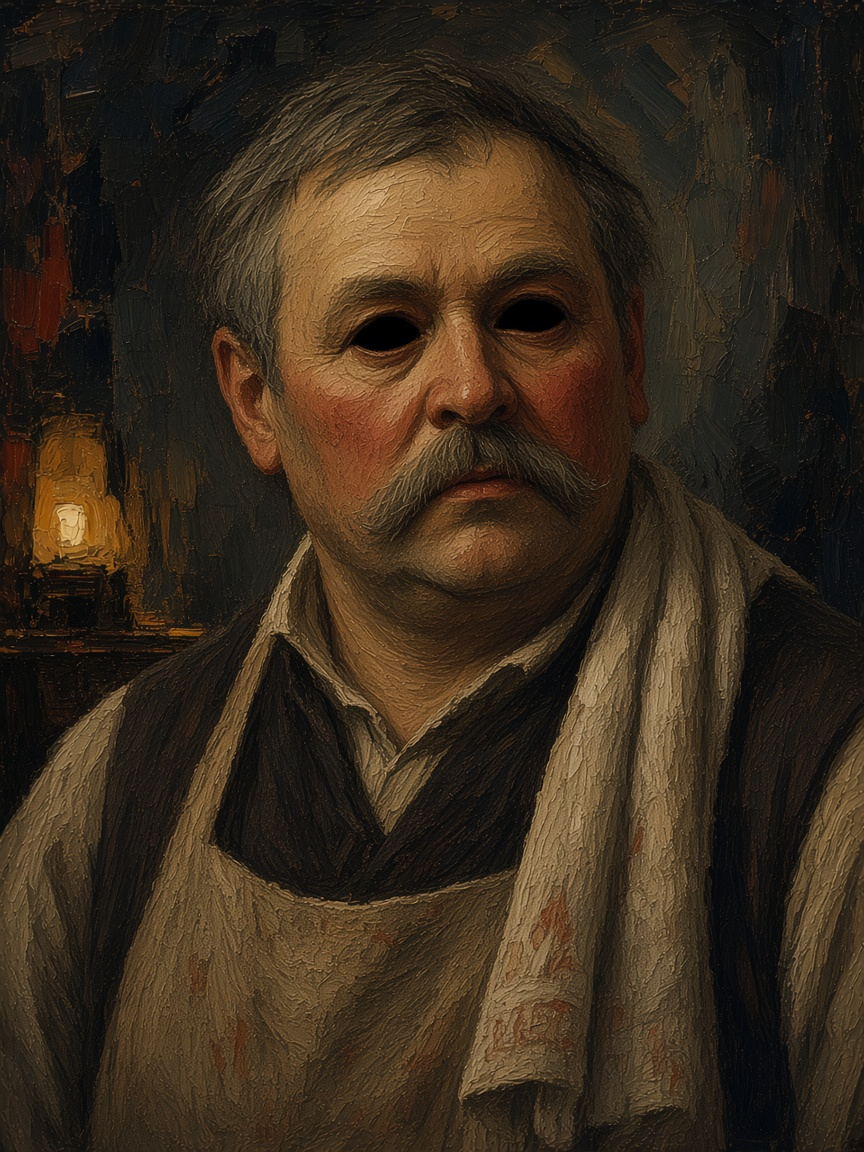
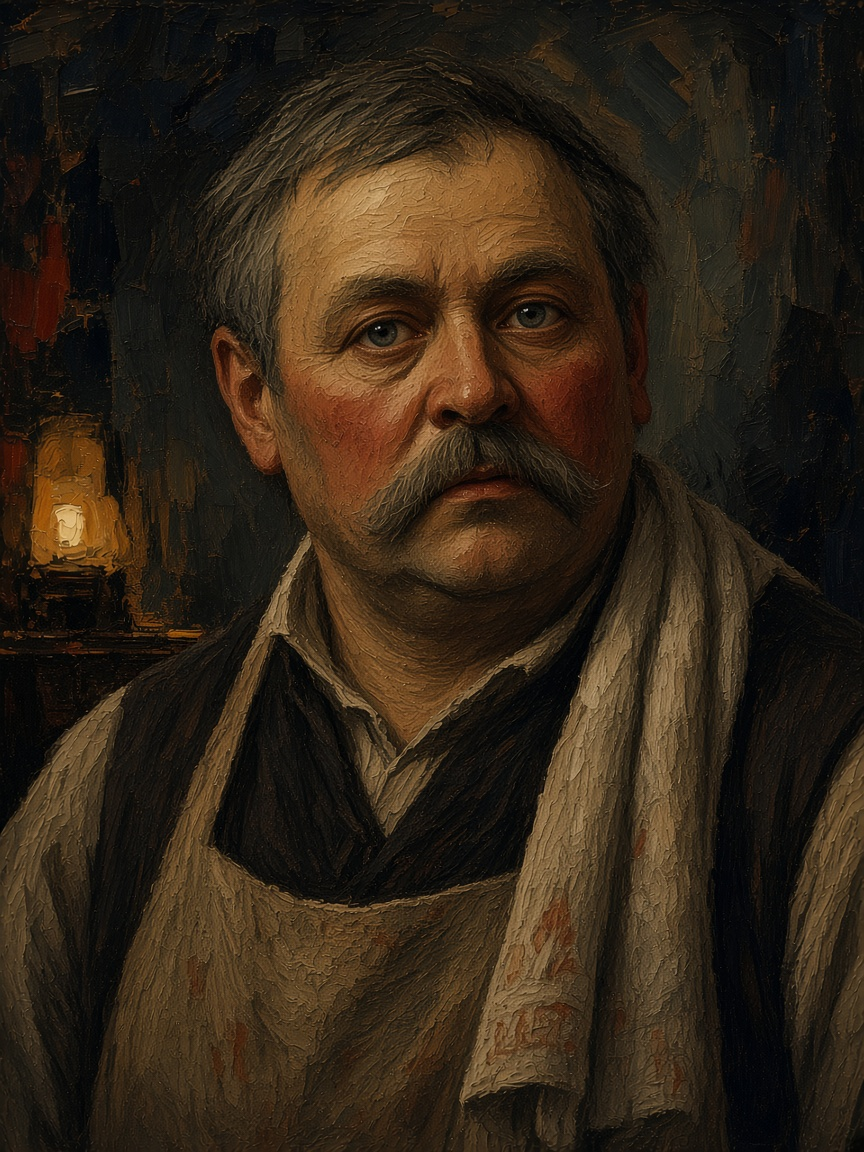
Give Lukin and Praskovya faces in talk, and paint the innkeeper eyes that were empty sockets.

diff --git a/tools/verify_phase0.py b/tools/verify_phase0.py
@@ -182,6 +182,10 @@ def main():
         errors.append("говорить имеет фразу таблицы")
     from engine.talent_system import (
         TALENTS,
+        has_hear_lamp,
+        has_note_hold,
+        has_opening_crit,
+        has_trace_glimpse,
         take_talent,
         visible_talents,
     )
@@ -221,10 +225,40 @@ def main():
         errors.append("после корня не открываются ветки")
     if "see_trace" in SKILL_PHRASES:
         errors.append("след получил фразы броска")
+    rebel.talents = ["fight_1", "fight_2", "fight_3"]
+    if not has_opening_crit(rebel):
+        errors.append("талант «Насквозь» не готовит удар")
+    seeker.talents = ["hear_1", "hear_2"]
+    if not has_hear_lamp(seeker):
+        errors.append("талант слуха у лампы не ставится")
+    seeker.talents = ["search_1", "trace_1"]
+    if not has_trace_glimpse(seeker):
+        errors.append("талант следа не ставится")
+    mystic = players["mystic"]
+    mystic.talents = ["hear_1", "read_1", "read_2"]
+    if not has_note_hold(mystic):
+        errors.append("талант чужого почерка не ставится")
+    import engine.rpg_system as rpg_hold
+
+    class _WillFail:
+        success = False
+        total = 18
+        target = 10
+        crit = False
+        fumble = True
+
+    old_will = rpg_hold.roll_will
+    rpg_hold.roll_will = lambda player: _WillFail()
+    amount, phrase = rpg_hold.san_loss_for("note_canal", mystic)
+    rpg_hold.roll_will = old_will
+    if amount != 1 or "почерк" not in (phrase or "").lower():
+        errors.append(f"чужой почерк не держит бумагу: {amount} {phrase}")
     rebel.talents = []
     seeker.talents = []
+    mystic.talents = []
     rebel.san = rebel.max_san
     seeker.san = seeker.max_san
+    mystic.san = mystic.max_san
     from engine.constants import UNARMED_DAMAGE_DIE
     from engine.entity_factory import EntityFactory
     from engine.paintings import LOCATION_FILES, oil_id_for_item, oil_id_for_map, painting_path
@@ -439,6 +473,7 @@ def main():
     engine.current_dialogue_choices = []
     engine.current_dialogue_text = ""
     engine.current_dialogue_speaker = ""
+    engine.current_dialogue_portrait = ""
     engine.showing_help = False
     engine.is_inventory_open = False
     engine.is_talents_open = False
@@ -1618,6 +1653,17 @@ def main():
             de_wh_ok.finish()
         else:
             errors.append("не стартует постовой для успеха свистка")
+        engine.player.id = "seeker"
+        engine.player.talents = ["hear_1", "hear_2"]
+        engine.flags.discard("mystic_trace")
+        engine.fired_triggers = set()
+        engine._load_map("hospital_floor_1")
+        engine.player.x, engine.player.y = 18, 2
+        rpg_hear.roll_3d6 = lambda: 3
+        engine._try_move(0, -1)
+        if "mystic_trace" not in engine.flags:
+            errors.append("талант слуха не работает у лампы без занятия мистика")
+        engine.player.talents = []
     finally:
         rpg_hear.roll_3d6 = old_hear
         engine.player.id = old_pid
@@ -1835,10 +1881,86 @@ def main():
     for pid, name in PORTRAIT_FILES.items():
         if portrait_path(pid) is None:
             errors.append(f"нет портрета data/portraits/{name}")
+    for house_pid in ("shopkeeper_lukin", "landlady_praskovya"):
+        if house_pid not in PORTRAIT_FILES:
+            errors.append(f"нет портрета {house_pid} в списке")
+        elif portrait_path(house_pid) is None:
+            errors.append(f"нет файла портрета {PORTRAIT_FILES[house_pid]}")
     if "_fit_portrait_dest" not in (ROOT / "engine" / "renderer.py").read_text(
         encoding="utf-8"
     ):
         errors.append("портрет снова растягивается в клетку")
+
+    saved_talk = (
+        engine.current_map_id,
+        engine.player.x,
+        engine.player.y,
+        engine.state,
+        engine.current_dialogue_portrait,
+        set(engine.flags),
+        list(engine.player.talents),
+        list(engine.messages),
+        set(engine.visited_regions),
+    )
+    engine.flags.add("archive_name")
+    engine.flags.add("guilt_admitted")
+    engine._load_map("street_tenement")
+    lukin = next(
+        (e for e in engine.entities if getattr(e, "id", "") == "shopkeeper_lukin"),
+        None,
+    )
+    if not lukin:
+        errors.append("Лукин не стоит в лавке")
+    else:
+        engine.state = _LiveState.PLAYING
+        engine.player.x, engine.player.y = lukin.x, lukin.y + 1
+        engine._try_interact()
+        if engine.current_dialogue_portrait != "shopkeeper_lukin":
+            errors.append(
+                f"разговор с Лукиным без портрета: {engine.current_dialogue_portrait!r}"
+            )
+    prask = next(
+        (e for e in engine.entities if getattr(e, "id", "") == "landlady_praskovya"),
+        None,
+    )
+    if not prask:
+        errors.append("Прасковья не стоит в квартире")
+    else:
+        engine.state = _LiveState.PLAYING
+        engine.current_dialogue_portrait = ""
+        engine.player.x, engine.player.y = prask.x, prask.y + 1
+        engine._try_interact()
+        if engine.current_dialogue_portrait != "landlady_praskovya":
+            errors.append(
+                f"разговор с Прасковьей без портрета: {engine.current_dialogue_portrait!r}"
+            )
+    engine.player.talents = ["search_1", "trace_1"]
+    engine.visited_regions = set()
+    engine.messages = []
+    engine.flags.discard("talent_trace:ten_shop")
+    engine._check_region(10, 4)
+    if "овал от ключей" not in " ".join(engine.messages).lower():
+        errors.append(f"талант следа молчит в лавке: {engine.messages}")
+    (
+        map_id,
+        px,
+        py,
+        st,
+        portrait,
+        flags,
+        talents,
+        messages,
+        visited,
+    ) = saved_talk
+    engine.flags = flags
+    engine.player.talents = talents
+    engine.visited_regions = visited
+    engine.messages = messages
+    engine.current_dialogue_portrait = portrait
+    engine.state = st
+    if map_id:
+        engine._load_map(map_id)
+        engine.player.x, engine.player.y = px, py
 
     engine._load_map("hospital_floor_1")
     engine.player.x, engine.player.y = 18, 2

diff --git a/engine/portraits.py b/engine/portraits.py
@@ -20,6 +20,8 @@ PORTRAIT_FILES: Dict[str, str] = {
     "mystic": "mystic.png",
     "rebel": "rebel.png",
     "innkeeper_semyon": "semyon.png",
+    "shopkeeper_lukin": "lukin.png",
+    "landlady_praskovya": "praskovya.png",
     "watchman_petrov": "petrov.png",
     "sennaya_beggar": "beggar.png",
     "player_double": "double.png",

diff --git a/DEVELOPMENT_PLAN.md b/DEVELOPMENT_PLAN.md
@@ -5,13 +5,17 @@
 1. Закрыто — мир. Доходный дом из атласа: лавка, квартира, кухня, лестница. Туман ведёт туда. Бегство — у Прасковьи, не в вате.
 2. Сейчас — развитие. Тетрадь на t: разветвлённое дерево, боевые и мирные ветки. Узел можно взять и углубить. Воля и поступок. Растёт из восьми глаголов.
 3. Потом — ночи. Три занятия дают три разные ночи. Дело меняет конец. Когда персонаж уже умеет расти.
-4. Сейчас ещё — графика этого куска: вид места при переходе, масло вещей, нож в руке. Клетка и лица Лукина/Прасковьи — потом. tcod остаётся, пока книга не книга.
+4. Сейчас ещё — графика этого куска: вид места при переходе, масло вещей, нож в руке, лица Лукина и Прасковьи. Клетка 16×24 — потом. tcod остаётся, пока книга не книга.
 5. Горизонт — другой 2D-движок. Тот же Петербург: карты `.txt`, база, восемь глаголов. Не HD-2D, не analog, не сейчас.
+
+Стратегия на годы — консилиум 16 сентября: ночь как поставка, три занятия в том же доме, потом участок / церковь / станция, окно последним. Канва «Стратегия Петербурга». Это не PASS тетради и не заказ участка.
+
+Поставка дальше — рой, не вайб: спека, роли, другой критик, verify_phase0, PASS. Канва «Рой, не вайб». Не Claude Flow ради моды.
 
 Как работаем. Историю и мир пишет студия, не один агент. Начальник отвечает за итог. Приёмка — PASS или FAIL, не «в целом хорошо». FAIL — конкретный возврат: что сломано, кому чинить. Незакрытый дефект не готов. Два круга, потом вам или стоп. На идее не ищем, «почему плохо».
 
 Речь — Достоевский. Карты — руками. Не analog, не шестой этаж, не Невский, не HD-2D, не Ктулху. Дерево талантов — ветки восьми глаголов, не девятый.
 
-Канва рядом с чатом — «Петербург. Клиника. Бред.» Ночь 15 сентября закрыта: дом, тетрадь, масло, нож в руке. Без PASS режиссёра не «готово».
+Канва рядом с чатом — «Петербург. Клиника. Бред.» 16 сентября: портреты Лукина и Прасковьи, глаза Семёна. Тетрадь без вашей приёмки не «готово».
 
-*15 сентября 2026*
+*16 сентября 2026*
